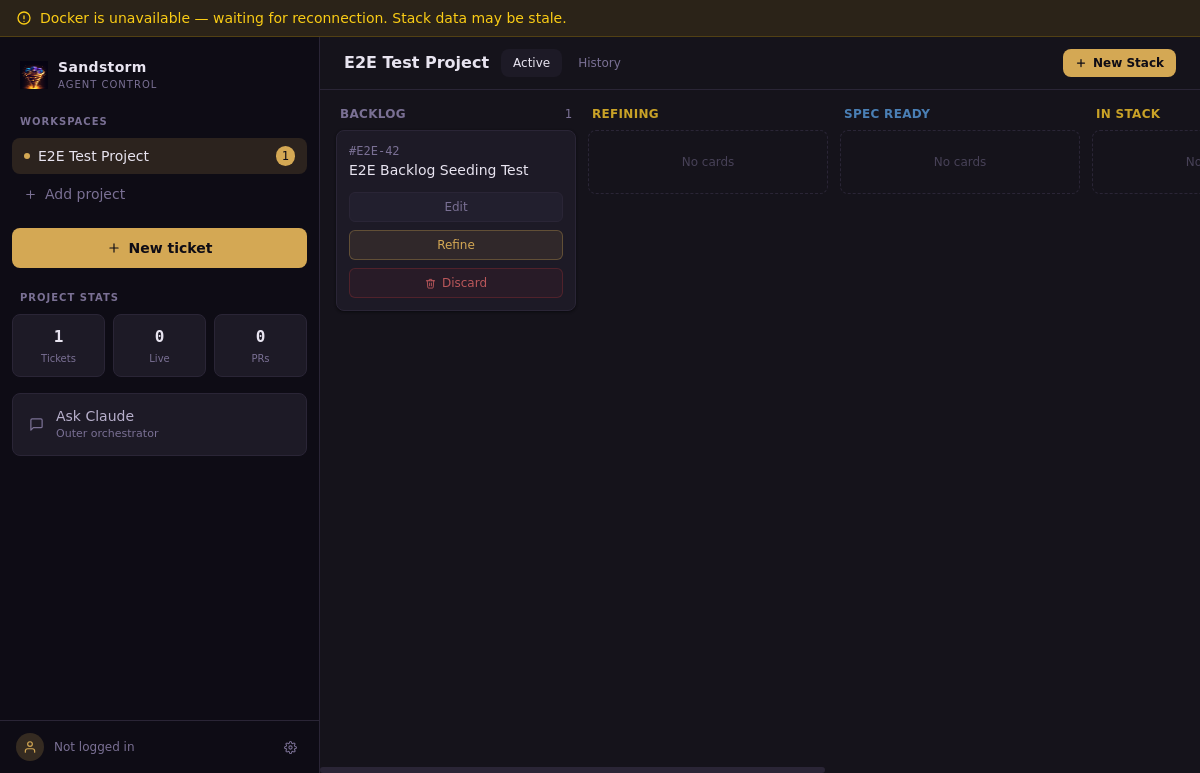
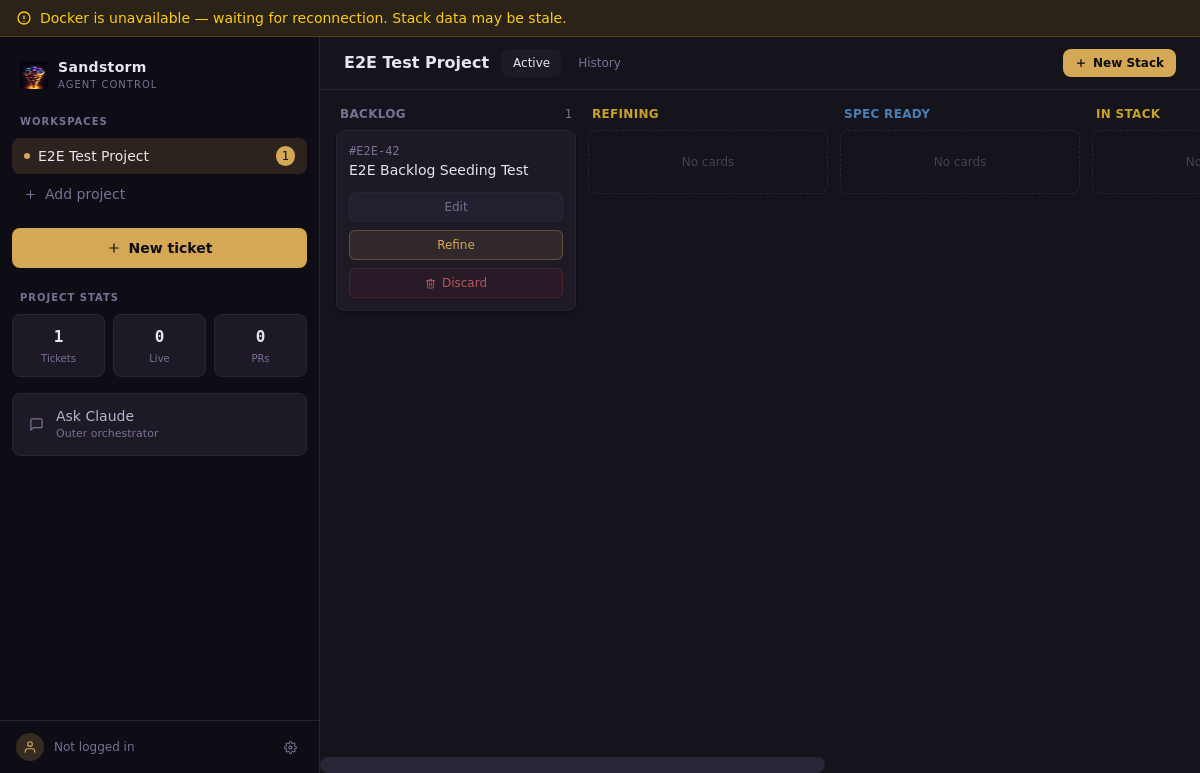
[487] fix: thicken kanban board horizontal scrollbar

Changed region(s): [[0.2467, 0.9625, 0.6783, 0.9935]]

diff --git a/tests/unit/components/kanban-scrollbar.test.ts b/tests/unit/components/kanban-scrollbar.test.ts
@@ -1,0 +1,23 @@
+import { readFileSync } from 'fs'
+import { describe, it, expect } from 'vitest'
+
+describe('Kanban board scrollbar CSS', () => {
+  const css = readFileSync('src/renderer/index.css', 'utf-8')
+
+  it('has board-scoped scrollbar width and height of 16px', () => {
+    expect(css).toMatch(/\[data-testid="kanban-columns"\]::-webkit-scrollbar\s*\{[^}]*width:\s*16px/)
+    expect(css).toMatch(/\[data-testid="kanban-columns"\]::-webkit-scrollbar\s*\{[^}]*height:\s*16px/)
+  })
+
+  it('has board-scoped scrollbar-thumb border-radius of 8px', () => {
+    expect(css).toMatch(/\[data-testid="kanban-columns"\]::-webkit-scrollbar-thumb\s*\{[^}]*border-radius:\s*8px/)
+  })
+
+  it('global scrollbar rule still has width and height of 6px', () => {
+    const globalScrollbarMatch = css.match(/::-webkit-scrollbar\s*\{([^}]*)\}/)
+    expect(globalScrollbarMatch).not.toBeNull()
+    const globalBlock = globalScrollbarMatch![1]
+    expect(globalBlock).toMatch(/width:\s*6px/)
+    expect(globalBlock).toMatch(/height:\s*6px/)
+  })
+})

diff --git a/src/renderer/index.css b/src/renderer/index.css
@@ -46,6 +46,16 @@
   background: transparent;
 }
 
+/* Kanban board scrollbar — wider for easier grabbing (issue #487) */
+[data-testid="kanban-columns"]::-webkit-scrollbar {
+  width: 16px;
+  height: 16px;
+}
+
+[data-testid="kanban-columns"]::-webkit-scrollbar-thumb {
+  border-radius: 8px;
+}
+
 /* Electron drag region */
 .titlebar-drag {
   -webkit-app-region: drag;